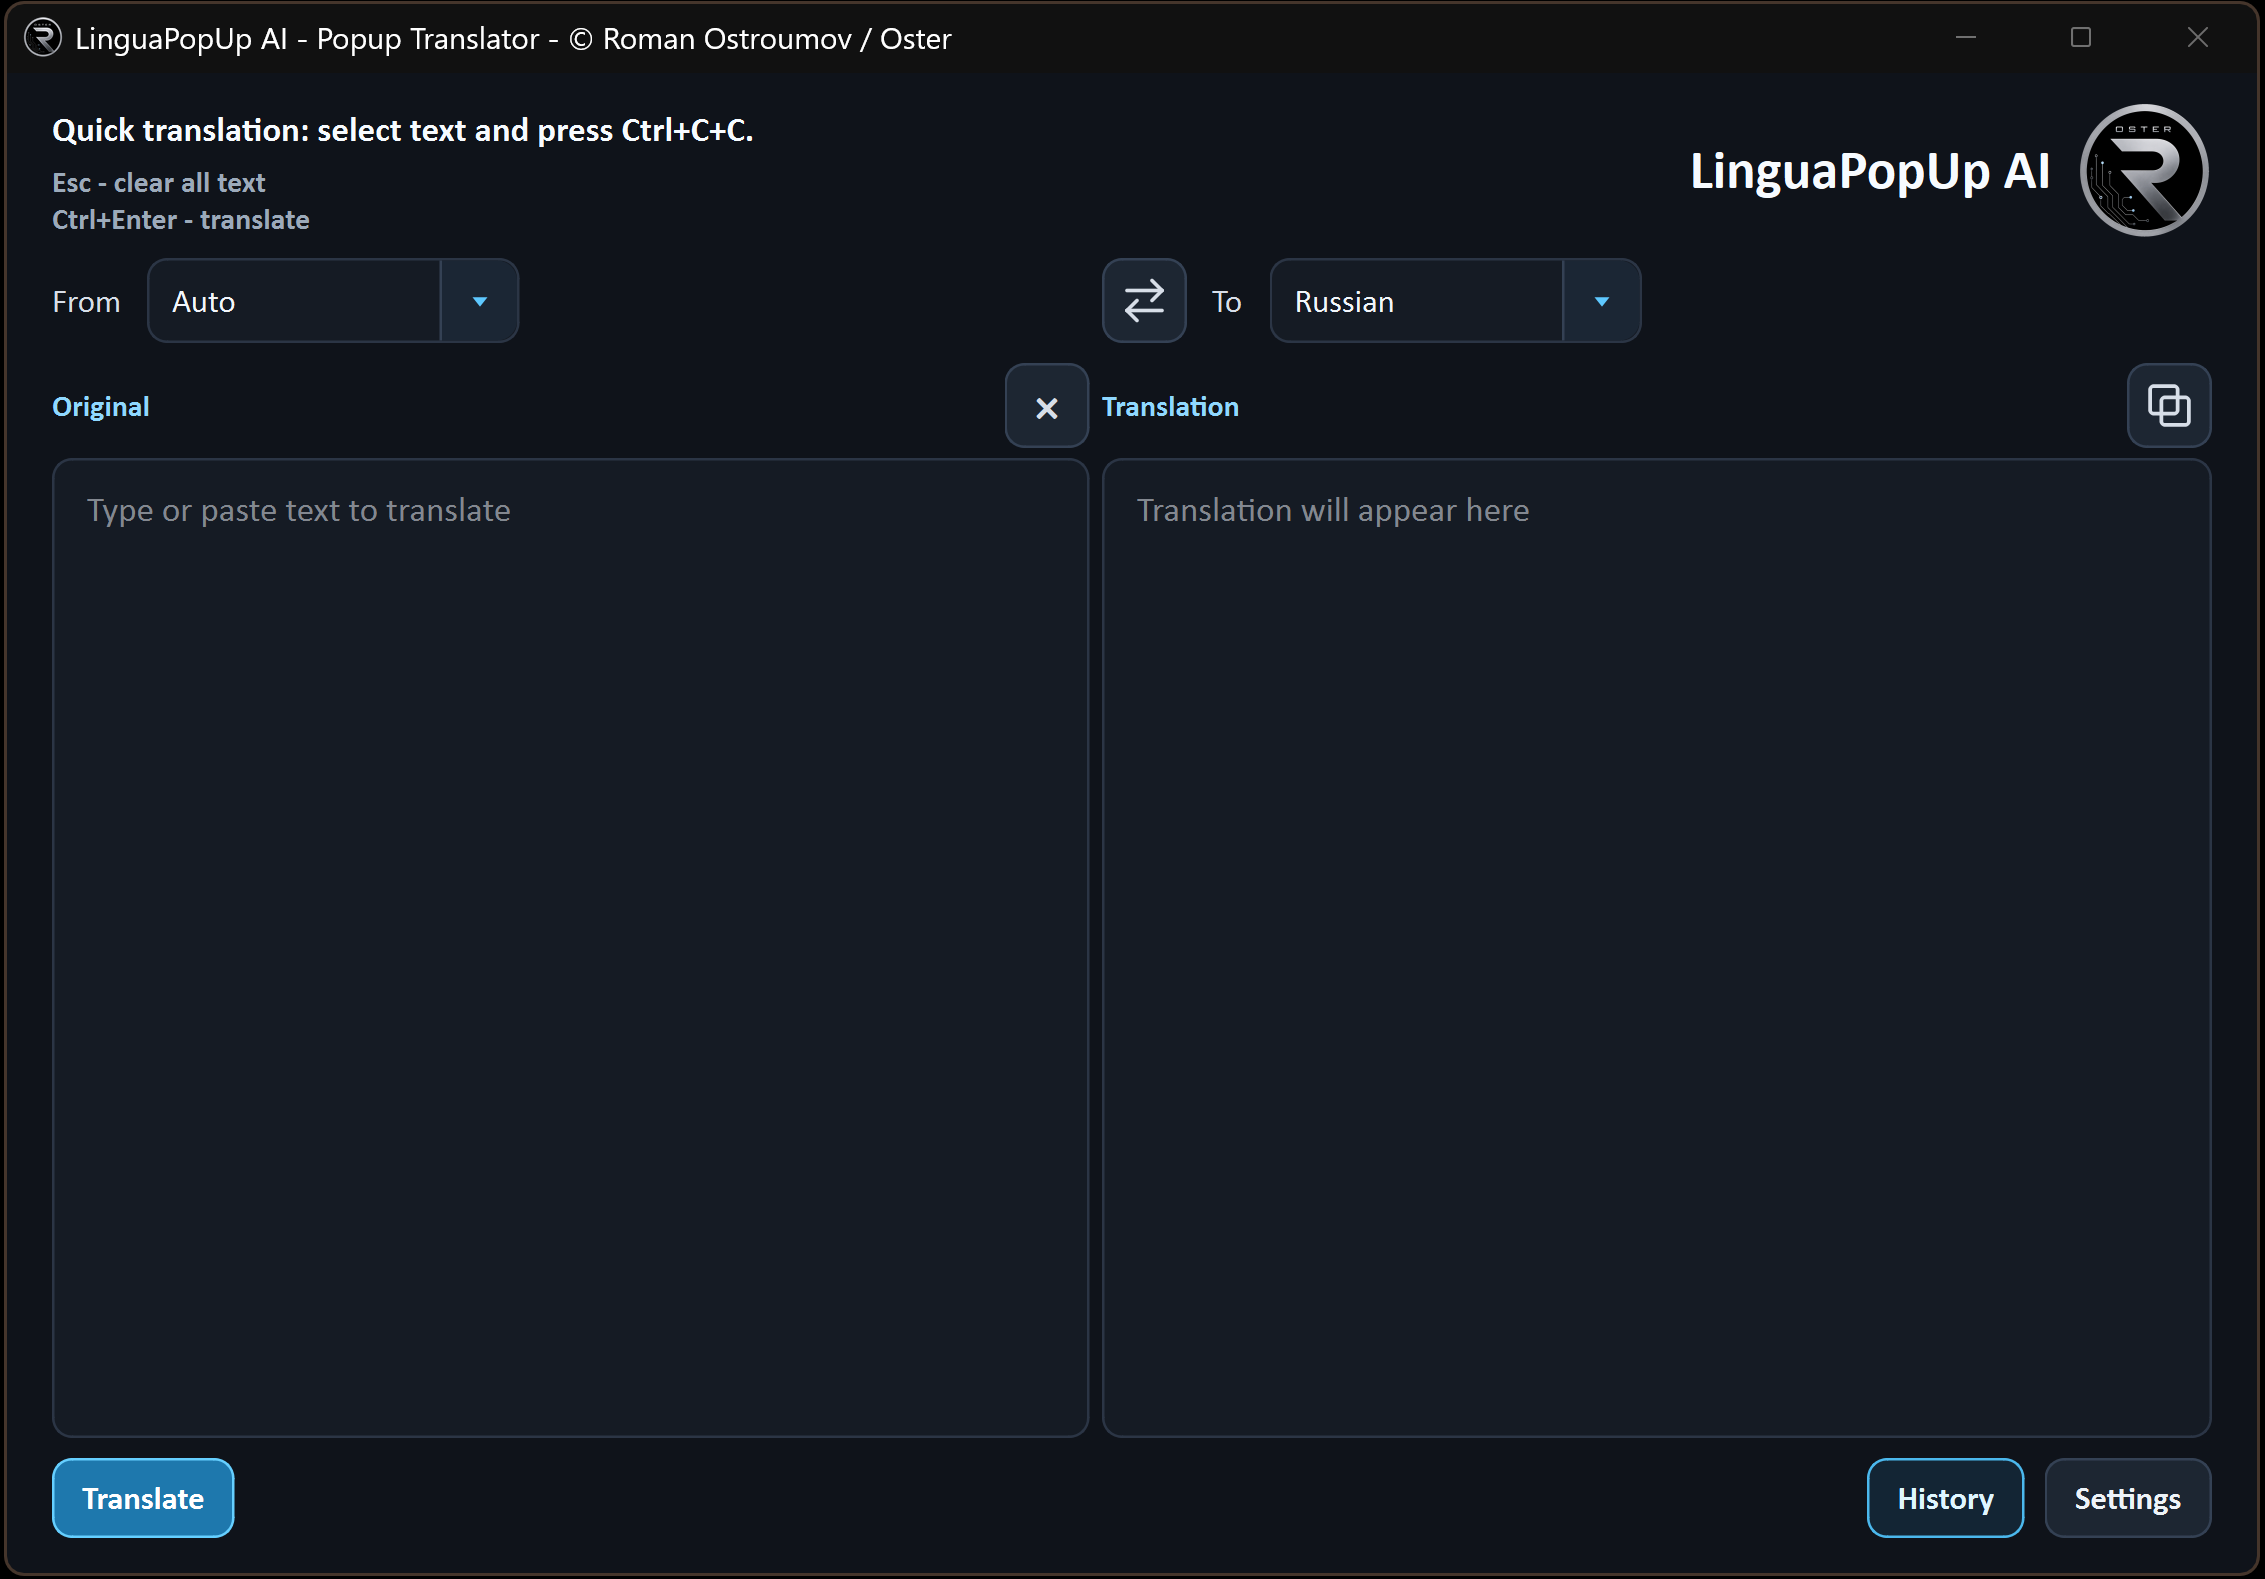
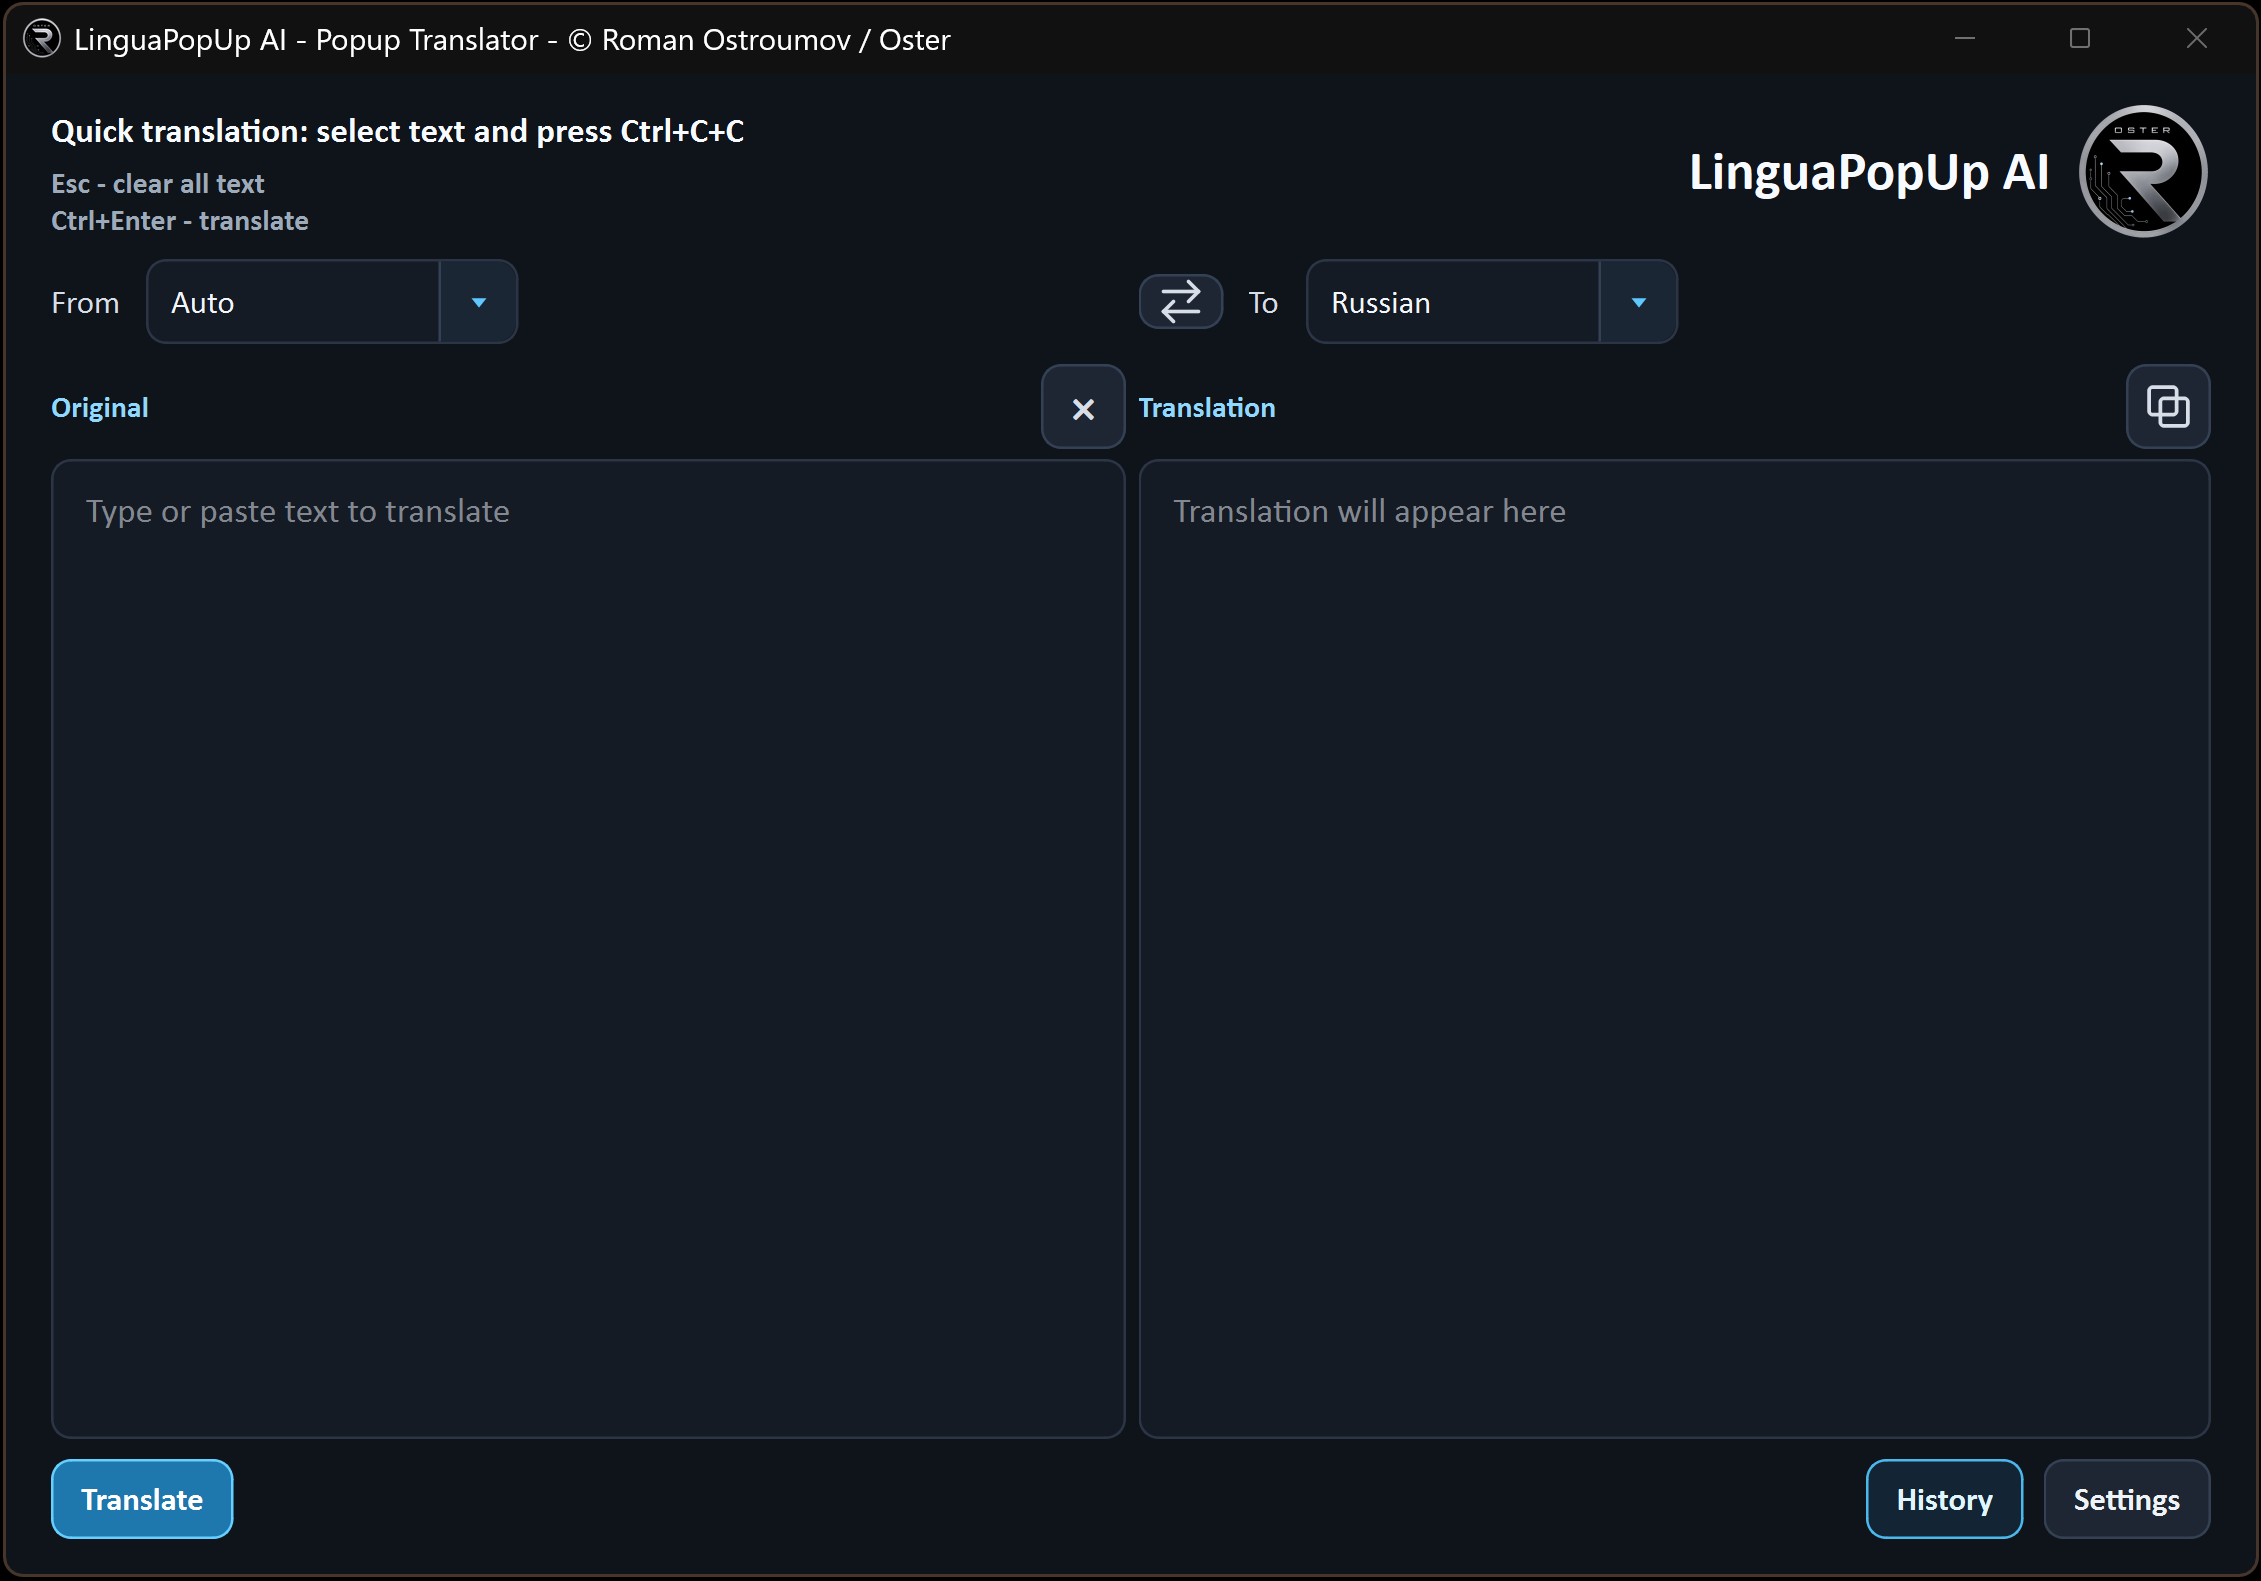
Update Windows 2.1.1 screenshot

diff --git a/index.html b/index.html
@@ -12,7 +12,7 @@
   <meta property="og:description" content="Fast selected-text popup translation on Windows and macOS with your own AI provider API key.">
   <meta property="og:type" content="website">
   <meta property="og:url" content="https://0sterman.github.io/AI-LinguaFlow/">
-  <meta property="og:image" content="https://0sterman.github.io/AI-LinguaFlow/assets/linguapopup-ai-main-window.png">
+  <meta property="og:image" content="https://0sterman.github.io/AI-LinguaFlow/assets/linguapopup-ai-main-window.png?v=2.1.1-screenshot">
   <meta name="twitter:card" content="summary_large_image">
   <style>
     :root {
@@ -174,8 +174,8 @@
         <a class="button secondary" href="https://github.com/0sterman/AI-LinguaFlow/releases/tag/v1.0.9">Download macOS Intel v1.0.9</a>
         <a class="button secondary" href="https://github.com/0sterman/AI-LinguaFlow">GitHub downloads repository</a>
       </div>
-      <a class="screenshot-link" href="assets/linguapopup-ai-main-window.png" aria-label="Open the LinguaPopUp AI screenshot in full size">
-        <img class="screenshot" src="assets/linguapopup-ai-main-window.png" alt="LinguaPopUp AI popup translator main window — click to open full size">
+      <a class="screenshot-link" href="assets/linguapopup-ai-main-window.png?v=2.1.1-screenshot" aria-label="Open the LinguaPopUp AI screenshot in full size">
+        <img class="screenshot" src="assets/linguapopup-ai-main-window.png?v=2.1.1-screenshot" alt="LinguaPopUp AI popup translator main window — click to open full size">
       </a>
     </div>
 

diff --git a/README.md b/README.md
@@ -9,8 +9,8 @@ LinguaPopUp AI helps you translate text without breaking your workflow: select t
 Official landing page: [LinguaPopUp AI](https://0sterman.github.io/AI-LinguaFlow/)
 
 <p align="center">
-  <a href="https://0sterman.github.io/AI-LinguaFlow/assets/linguapopup-ai-main-window.png?v=2.1.1">
-    <img src="https://0sterman.github.io/AI-LinguaFlow/assets/linguapopup-ai-main-window.png?v=2.1.1" alt="LinguaPopUp AI main translator window — click to open full size" width="900">
+  <a href="https://0sterman.github.io/AI-LinguaFlow/assets/linguapopup-ai-main-window.png?v=2.1.1-screenshot">
+    <img src="https://0sterman.github.io/AI-LinguaFlow/assets/linguapopup-ai-main-window.png?v=2.1.1-screenshot" alt="LinguaPopUp AI main translator window — click to open full size" width="900">
   </a>
 </p>
 